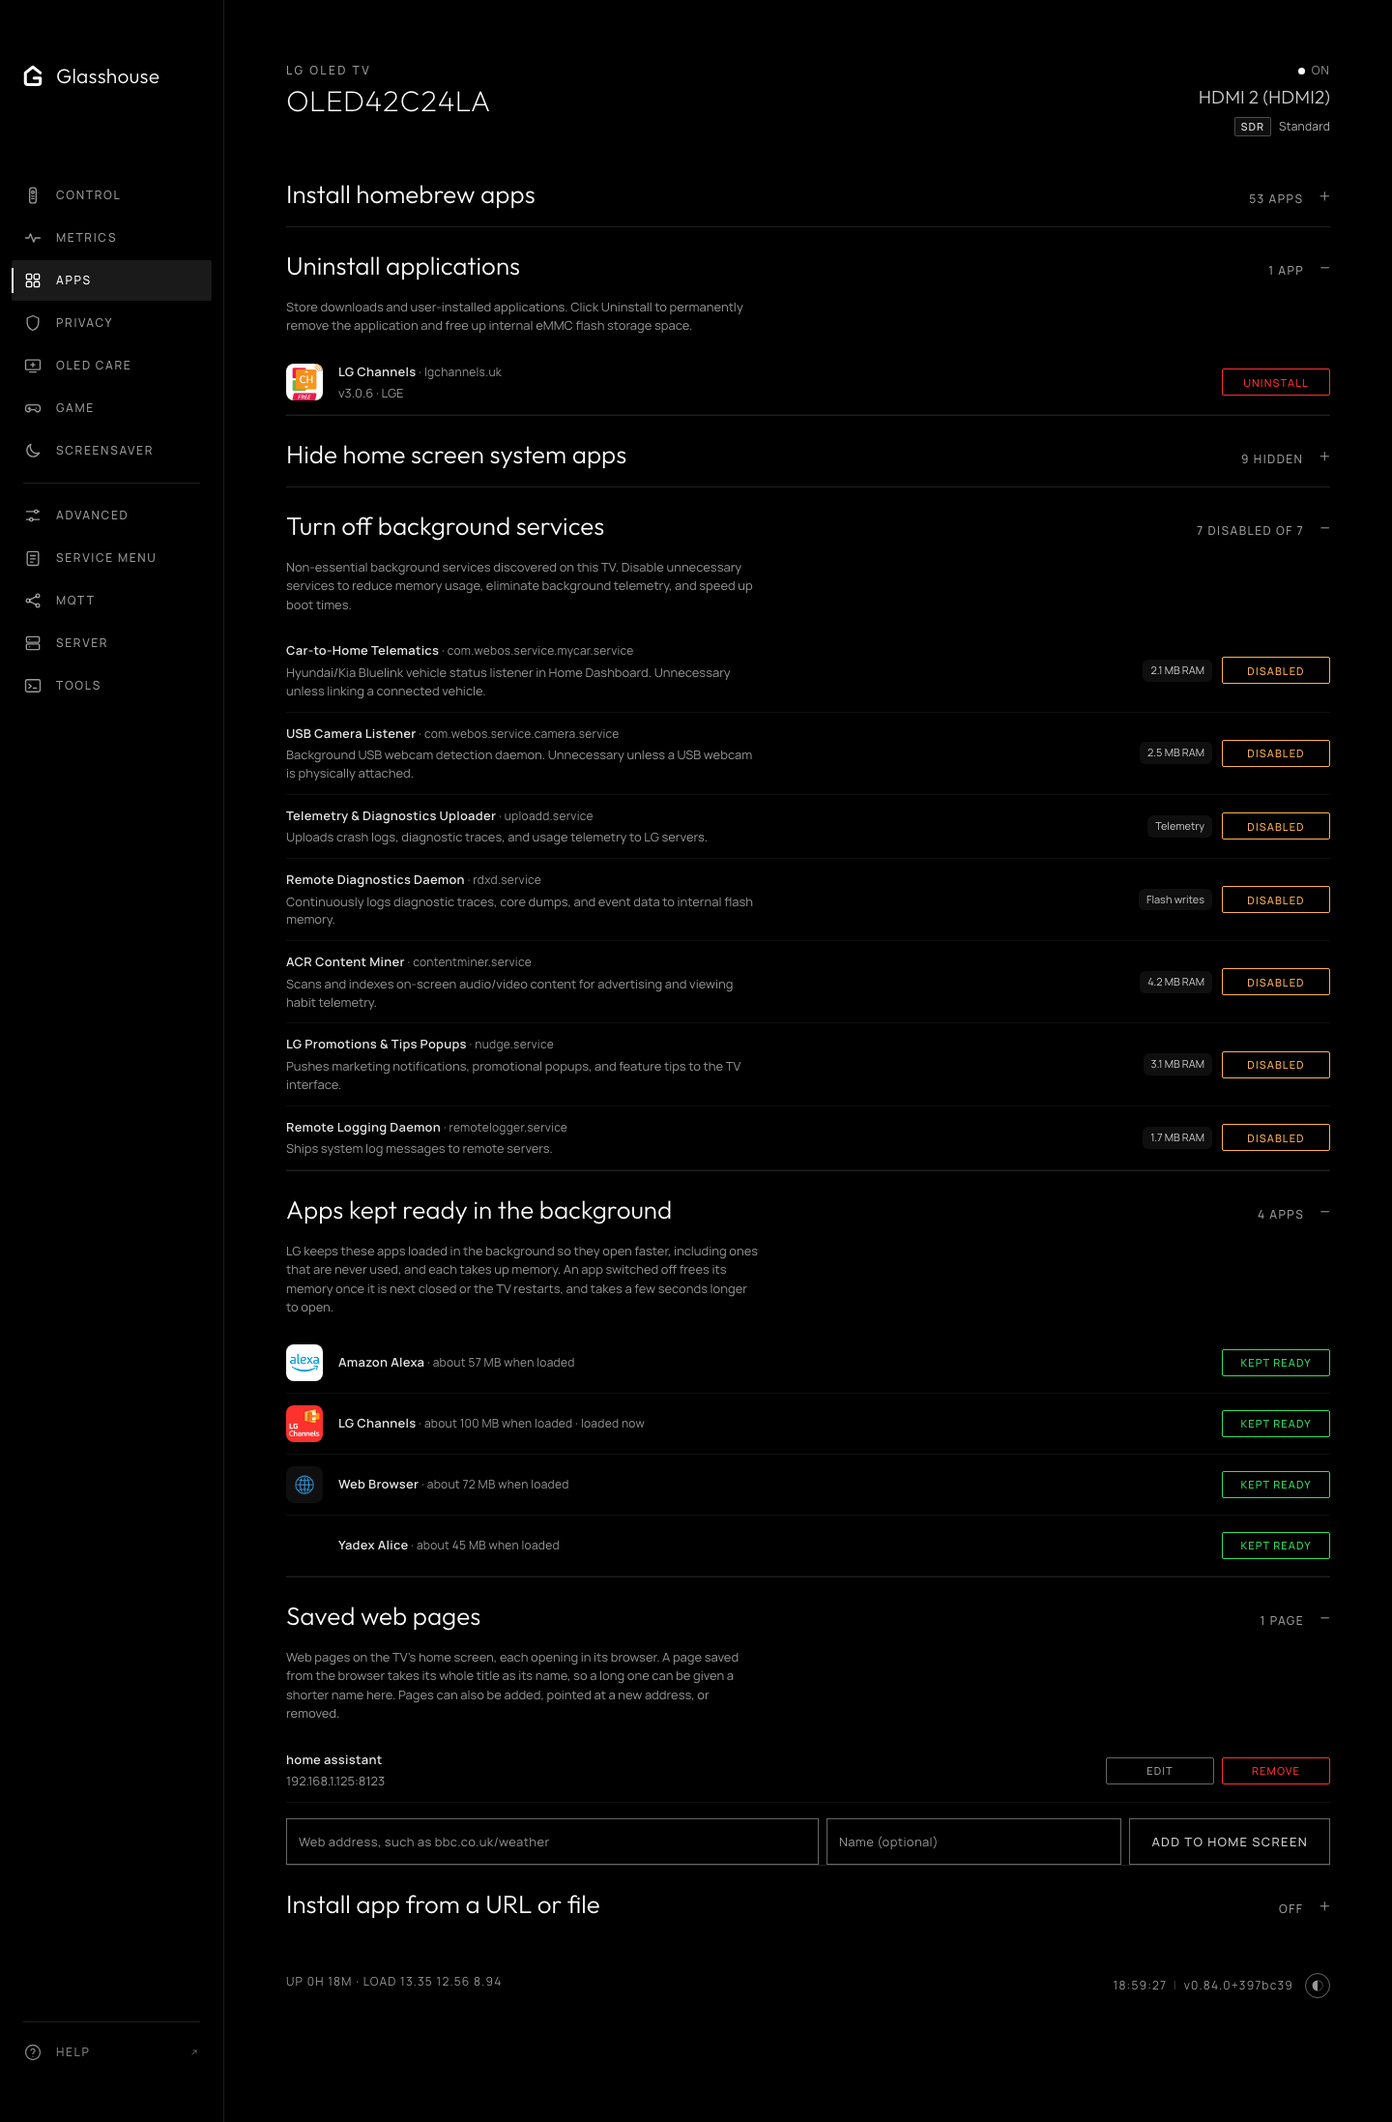
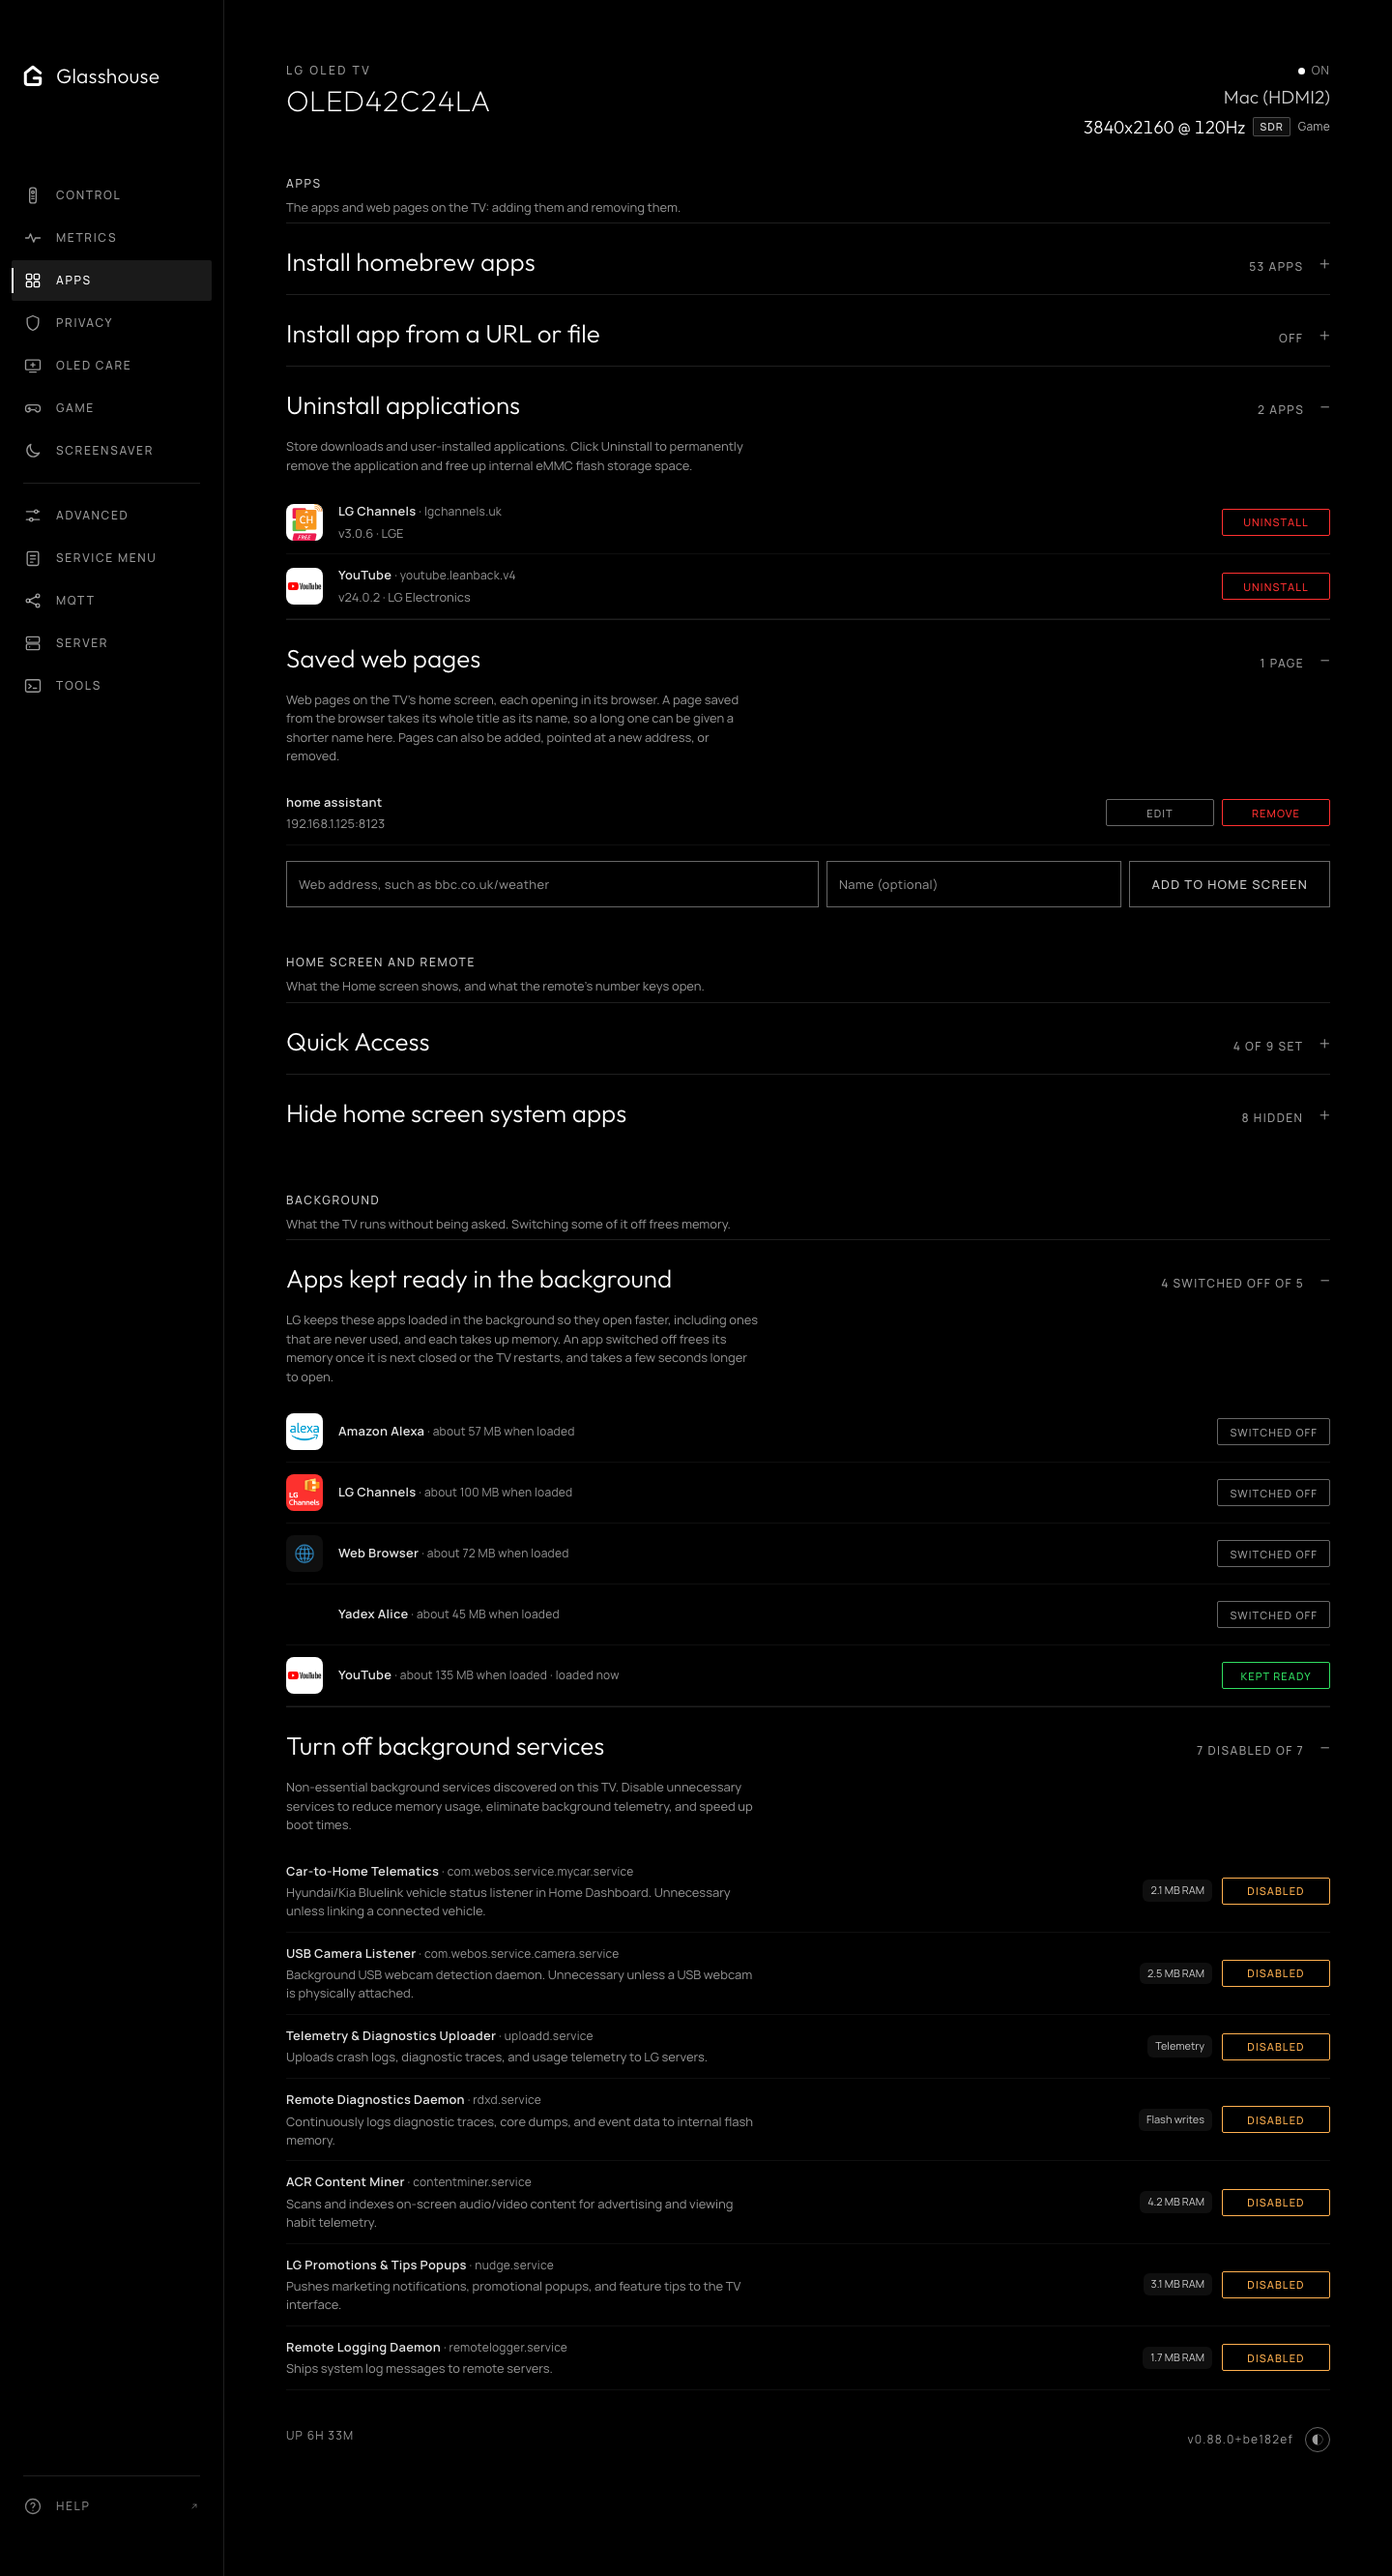
Retake the Apps screenshot in its three groups

diff --git a/docs/dashboard/apps.md b/docs/dashboard/apps.md
@@ -2,9 +2,9 @@
 
 The **Apps** tab, `/?tab=apps`, has three groups: **Apps**, for installing and removing apps and the web pages saved to the Home screen; **Home screen and remote**, for what the Home screen shows and what the remote's number keys open; and **Background**, for the memory LG's background apps and services take up.
 
-![Apps tab: installed applications with uninstall actions, background services switched off, apps kept ready in the background, and saved web pages](../screenshots/apps.png)
+![Apps tab in three groups: installed applications and saved web pages under Apps, Quick Access and hidden system apps under Home screen and remote, and apps kept ready and background services under Background](../screenshots/apps.png)
 
-*Installed applications, background services, apps kept ready in the background and saved web pages.*
+*The three groups, with installed applications, saved web pages, apps kept ready in the background and background services open.*
 
 ## Apps
 
